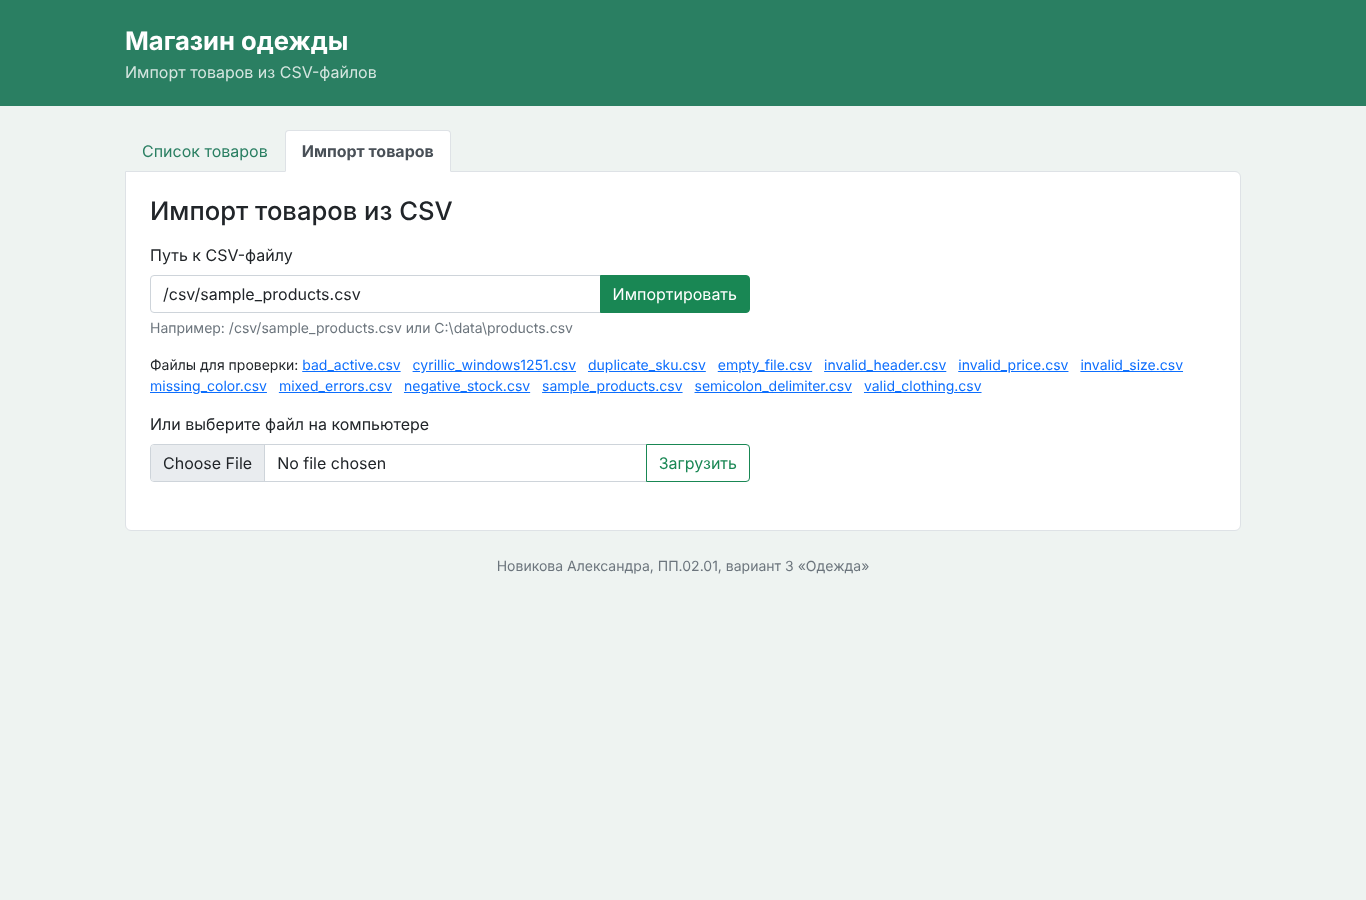
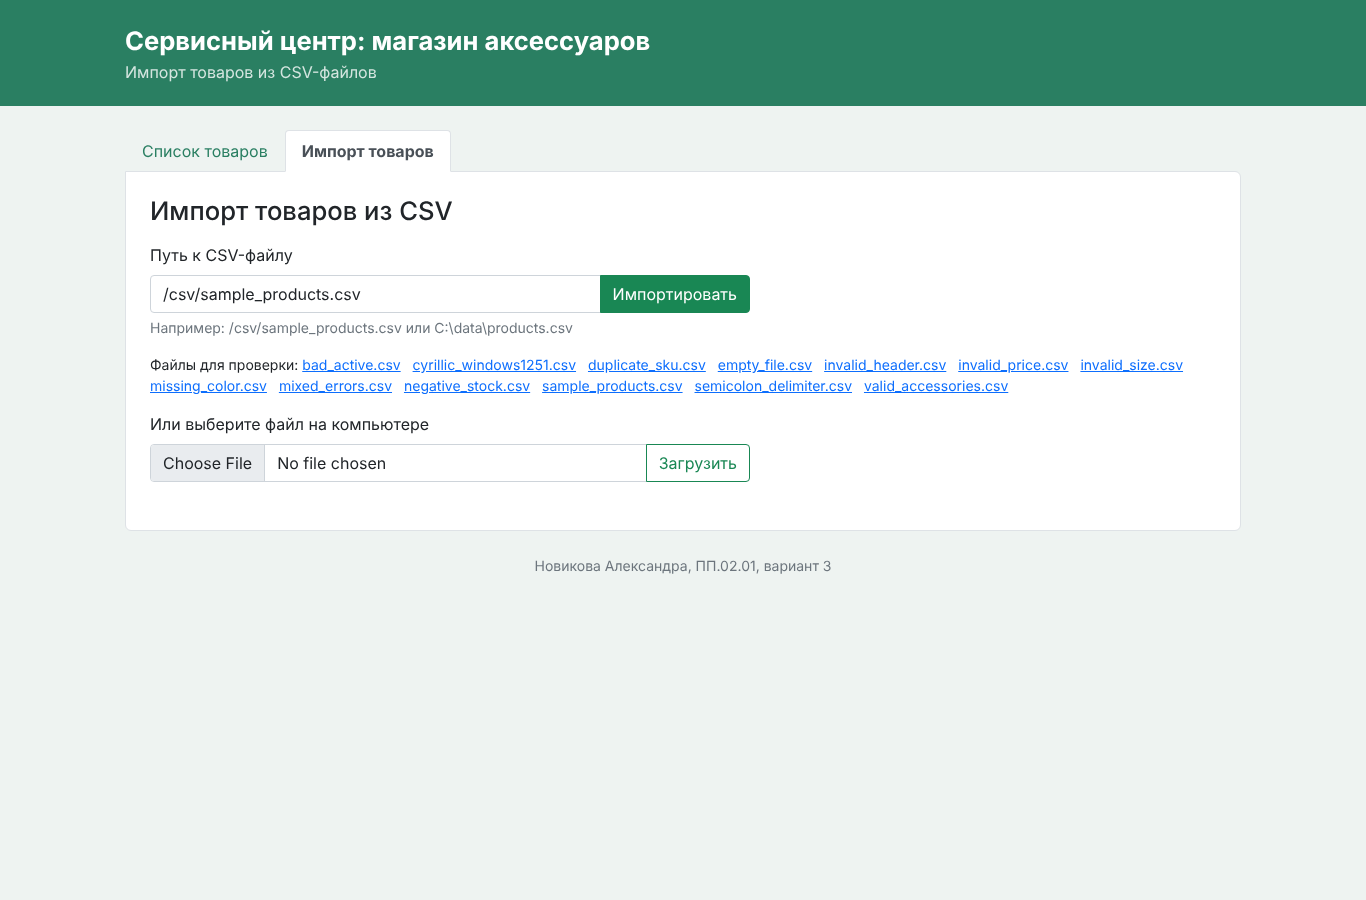
Change sample data to accessories of repair service center

Changed region(s): [[0.0922, 0.0311, 0.4919, 0.0622], [0.369, 0.6222, 0.6457, 0.6533], [0.6457, 0.4044, 0.7379, 0.4356]]

diff --git a/tests/ECommerceCsvImport.Tests/ProductImportServiceTests.cs b/tests/ECommerceCsvImport.Tests/ProductImportServiceTests.cs
@@ -6,7 +6,7 @@ namespace ECommerceCsvImport.Tests
     public class ProductImportServiceTests
     {
         private const string Header = "sku,name,description,price,currency,category_name,stock,image_url,is_active,size,color,material";
-        private const string ValidRow = "3001,Футболка белая,Летняя футболка,990,RUB,Футболки,25,/images/t.jpg,true,M,белый,хлопок";
+        private const string ValidRow = "3001,Чехол-книжка,Чехол с застежкой,990,RUB,Чехлы,25,/images/t.jpg,true,M,белый,силикон";
 
         private readonly InMemoryProductRepository _repository = new InMemoryProductRepository();
         private readonly ProductImportService _service;
@@ -37,7 +37,7 @@ namespace ECommerceCsvImport.Tests
 
             var product = _repository.GetBySku("3001");
             Assert.NotNull(product);
-            Assert.Equal("Футболка белая", product!.Name);
+            Assert.Equal("Чехол-книжка", product!.Name);
             Assert.Equal(990m, product.Price);
             Assert.Equal("M", product.Size);
             Assert.Equal("белый", product.Color);
@@ -63,7 +63,7 @@ namespace ECommerceCsvImport.Tests
 
         // Проверка готовых тестовых файлов из папки testdata
         [Theory]
-        [InlineData("valid_clothing.csv", 2, 0)]
+        [InlineData("valid_accessories.csv", 2, 0)]
         [InlineData("invalid_price.csv", 0, 1)]
         [InlineData("duplicate_sku.csv", 1, 1)]
         [InlineData("missing_color.csv", 0, 1)]
@@ -80,7 +80,7 @@ namespace ECommerceCsvImport.Tests
         [Fact]
         public void WrongHeader_ReturnsError()
         {
-            var result = _service.ImportFromLines(new[] { "sku,name,price", "3001,Футболка,990" });
+            var result = _service.ImportFromLines(new[] { "sku,name,price", "3001,Чехол,990" });
 
             Assert.Equal(0, result.ImportedCount);
             Assert.Contains("Неверные заголовки CSV", Assert.Single(result.Errors).Message);
@@ -89,21 +89,21 @@ namespace ECommerceCsvImport.Tests
         [Fact]
         public void WrongFieldCount_ReturnsError()
         {
-            var result = Import("3001,Футболка белая");
+            var result = Import("3001,Чехол-книжка");
 
             Assert.Contains("Неверное количество полей", Assert.Single(result.Errors).Message);
         }
 
         [Theory]
-        [InlineData(",Футболка,,990,RUB,Футболки,25,,true,M,белый,хлопок", "Поле sku не может быть пустым")]
-        [InlineData("3001,,,990,RUB,Футболки,25,,true,M,белый,хлопок", "Поле name не может быть пустым")]
-        [InlineData("3001,Футболка,,-500,RUB,Футболки,25,,true,M,белый,хлопок", "Поле price должно быть числом больше 0")]
-        [InlineData("3001,Футболка,,abc,RUB,Футболки,25,,true,M,белый,хлопок", "Поле price должно быть числом больше 0")]
-        [InlineData("3001,Футболка,,990,RUB,Футболки,-5,,true,M,белый,хлопок", "Остаток на складе должен быть целым числом не меньше 0")]
-        [InlineData("3001,Футболка,,990,RUB,Футболки,25,,yes,M,белый,хлопок", "Поле is_active должно иметь значение true, false, 1 или 0")]
-        [InlineData("3001,Футболка,,990,RUB,Футболки,25,,true,XXXL,белый,хлопок", "Поле size должно быть S, M, L, XL или числом")]
-        [InlineData("3001,Футболка,,990,RUB,Футболки,25,,true,80,белый,хлопок", "Поле size должно быть S, M, L, XL или числом")]
-        [InlineData("3001,Футболка,,990,RUB,Футболки,25,,true,M,,хлопок", "Поле color обязательно")]
+        [InlineData(",Чехол,,990,RUB,Чехлы,25,,true,M,белый,силикон", "Поле sku не может быть пустым")]
+        [InlineData("3001,,,990,RUB,Чехлы,25,,true,M,белый,силикон", "Поле name не может быть пустым")]
+        [InlineData("3001,Чехол,,-500,RUB,Чехлы,25,,true,M,белый,силикон", "Поле price должно быть числом больше 0")]
+        [InlineData("3001,Чехол,,abc,RUB,Чехлы,25,,true,M,белый,силикон", "Поле price должно быть числом больше 0")]
+        [InlineData("3001,Чехол,,990,RUB,Чехлы,-5,,true,M,белый,силикон", "Остаток на складе должен быть целым числом не меньше 0")]
+        [InlineData("3001,Чехол,,990,RUB,Чехлы,25,,yes,M,белый,силикон", "Поле is_active должно иметь значение true, false, 1 или 0")]
+        [InlineData("3001,Чехол,,990,RUB,Чехлы,25,,true,XXXL,белый,силикон", "Поле size должно быть S, M, L, XL или числом")]
+        [InlineData("3001,Чехол,,990,RUB,Чехлы,25,,true,25,белый,силикон", "Поле size должно быть S, M, L, XL или числом")]
+        [InlineData("3001,Чехол,,990,RUB,Чехлы,25,,true,M,,силикон", "Поле color обязательно")]
         public void InvalidRow_IsNotImported(string row, string expectedError)
         {
             var result = Import(row);
@@ -117,10 +117,10 @@ namespace ECommerceCsvImport.Tests
         [Theory]
         [InlineData("m", "M")]
         [InlineData("XL", "XL")]
-        [InlineData("48", "48")]
+        [InlineData("15", "15")]
         public void Size_LetterOrNumber_IsAccepted(string size, string expected)
         {
-            Import($"3001,Футболка,,990,RUB,Футболки,25,,true,{size},белый,хлопок");
+            Import($"3001,Чехол,,990,RUB,Чехлы,25,,true,{size},белый,силикон");
 
             Assert.Equal(expected, _repository.GetBySku("3001")!.Size);
         }
@@ -128,12 +128,12 @@ namespace ECommerceCsvImport.Tests
         [Fact]
         public void DuplicateSkuInFile_FirstProductStays()
         {
-            var result = Import(ValidRow, "3001,Футболка серая,,1090,RUB,Футболки,8,,true,L,серый,хлопок");
+            var result = Import(ValidRow, "3001,Чехол-бампер,,1090,RUB,Чехлы,8,,true,L,серый,силикон");
 
             Assert.Equal(2, result.TotalRows);
             Assert.Equal(1, result.ImportedCount);
             Assert.Contains("Артикул товара уже существует", Assert.Single(result.Errors).Message);
-            Assert.Equal("Футболка белая", _repository.GetBySku("3001")!.Name);
+            Assert.Equal("Чехол-книжка", _repository.GetBySku("3001")!.Name);
         }
 
         [Fact]
@@ -149,7 +149,7 @@ namespace ECommerceCsvImport.Tests
         [Fact]
         public void EmptyOptionalFields_UseDefaults()
         {
-            Import("3011,Носки,,590,,,40,,true,42,белый,");
+            Import("3011,Чехол для ноутбука,,590,,,40,,true,13,белый,");
 
             var product = _repository.GetBySku("3011")!;
             Assert.Equal("RUB", product.Currency);
@@ -160,7 +160,7 @@ namespace ECommerceCsvImport.Tests
         [Fact]
         public void SeveralErrorsInOneRow_AllAreReported()
         {
-            var result = Import(",,Плохая строка,-10,RUB,Одежда,-5,,yes,XXXL,,");
+            var result = Import(",,Плохая строка,-10,RUB,Чехлы,-5,,yes,XXXL,,");
 
             Assert.Equal(0, _repository.Count);
             Assert.Equal(7, result.ErrorCount);

diff --git a/src/ECommerceCsvImport/Services/ProductImportService.cs b/src/ECommerceCsvImport/Services/ProductImportService.cs
@@ -5,7 +5,7 @@ using ECommerceCsvImport.Models;
 namespace ECommerceCsvImport.Services
 {
     /// <summary>
-    /// Импорт товаров (вариант 3 "Одежда") из CSV: чтение файла, проверка заголовков,
+    /// Импорт товаров (вариант 3) из CSV: чтение файла, проверка заголовков,
     /// валидация строк и добавление корректных товаров в репозиторий.
     /// Строки с ошибками и дубликаты артикулов пропускаются.
     /// </summary>
@@ -21,10 +21,10 @@ namespace ECommerceCsvImport.Services
         private const string DefaultCurrency = "RUB";
         private const string DefaultCategory = "Без категории";
 
-        // Допустимые размеры одежды
+        // Допустимые размеры: буквенные или диагональ устройства в дюймах
         private static readonly string[] LetterSizes = { "S", "M", "L", "XL" };
-        private const int MinNumericSize = 30;
-        private const int MaxNumericSize = 70;
+        private const int MinNumericSize = 10;
+        private const int MaxNumericSize = 20;
 
         private readonly IProductRepository _repository;
         private readonly ILogger<ProductImportService>? _logger;
@@ -210,7 +210,7 @@ namespace ECommerceCsvImport.Services
 
             string color = get("color");
             if (color == "")
-                errors.Add("Поле color обязательно для варианта «Одежда»");
+                errors.Add("Поле color обязательно для заполнения");
 
             string currency = get("currency");
             string category = get("category_name");
@@ -232,7 +232,7 @@ namespace ECommerceCsvImport.Services
             };
         }
 
-        // Возвращает размер в нормальном виде (M, XL, 48) или пустую строку, если размер неверный
+        // Возвращает размер в нормальном виде (M, XL, 15) или пустую строку, если размер неверный
         private static string NormalizeSize(string value)
         {
             string upper = value.ToUpper();

diff --git a/tests/ECommerceCsvImport.Tests/CsvLineParserTests.cs b/tests/ECommerceCsvImport.Tests/CsvLineParserTests.cs
@@ -7,7 +7,7 @@ namespace ECommerceCsvImport.Tests
         [Fact]
         public void Parse_SimpleLine()
         {
-            var fields = CsvLineParser.Parse("3001,Футболка белая,Летняя футболка,990,RUB,Футболки,25,/images/t.jpg,true,M,белый,хлопок");
+            var fields = CsvLineParser.Parse("3001,Чехол-книжка,Чехол с застежкой,990,RUB,Чехлы,25,/images/t.jpg,true,M,белый,силикон");
 
             Assert.Equal(12, fields.Count);
             Assert.Equal("3001", fields[0]);
@@ -16,7 +16,7 @@ namespace ECommerceCsvImport.Tests
         [Fact]
         public void Parse_EmptyFields()
         {
-            var fields = CsvLineParser.Parse("3011,Носки,,590,RUB,Аксессуары,40,,true,42,белый,");
+            var fields = CsvLineParser.Parse("3011,Чехол для ноутбука,,590,RUB,Чехлы,40,,true,13,белый,");
 
             Assert.Equal(12, fields.Count);
             Assert.Equal("", fields[2]);
@@ -26,10 +26,10 @@ namespace ECommerceCsvImport.Tests
         [Fact]
         public void Parse_CommaInsideQuotes()
         {
-            var fields = CsvLineParser.Parse("3002,\"Футболка, оверсайз\",Описание,1490,RUB,Футболки,1,,true,L,чёрный,хлопок");
+            var fields = CsvLineParser.Parse("3002,\"Чехол, противоударный\",Описание,1490,RUB,Чехлы,1,,true,L,чёрный,силикон");
 
             Assert.Equal(12, fields.Count);
-            Assert.Equal("Футболка, оверсайз", fields[1]);
+            Assert.Equal("Чехол, противоударный", fields[1]);
         }
 
         [Fact]

diff --git a/tests/ECommerceCsvImport.Tests/RepositoryTests.cs b/tests/ECommerceCsvImport.Tests/RepositoryTests.cs
@@ -10,7 +10,7 @@ namespace ECommerceCsvImport.Tests
         {
             var repository = new InMemoryProductRepository();
 
-            repository.Add(new Product { Sku = "3001", Name = "Футболка белая", Price = 990m });
+            repository.Add(new Product { Sku = "3001", Name = "Чехол-книжка", Price = 990m });
 
             var all = repository.GetAll();
             Assert.Single(all);
@@ -22,7 +22,7 @@ namespace ECommerceCsvImport.Tests
         public void GetBySku_IgnoresCaseAndSpaces()
         {
             var repository = new InMemoryProductRepository();
-            repository.Add(new Product { Sku = "AB-3001", Name = "Футболка" });
+            repository.Add(new Product { Sku = "AB-3001", Name = "Чехол" });
 
             Assert.NotNull(repository.GetBySku("AB-3001"));
             Assert.NotNull(repository.GetBySku(" ab-3001 "));

diff --git a/src/ECommerceCsvImport/Models/Product.cs b/src/ECommerceCsvImport/Models/Product.cs
@@ -1,6 +1,6 @@
 namespace ECommerceCsvImport.Models
 {
-    // Товар магазина. Вариант 3 - "Одежда" (добавлены размер, цвет и материал)
+    // Товар магазина аксессуаров сервисного центра. Вариант 3 (поля размер, цвет, материал)
     public class Product
     {
         public string Sku { get; set; } = string.Empty;
@@ -13,7 +13,7 @@ namespace ECommerceCsvImport.Models
         public string ImageUrl { get; set; } = string.Empty;
         public bool IsActive { get; set; }
 
-        // Поля варианта "Одежда"
+        // Поля варианта 3
         public string Size { get; set; } = string.Empty;
         public string Color { get; set; } = string.Empty;
         public string Material { get; set; } = string.Empty;

diff --git a/README.md b/README.md
@@ -1,7 +1,9 @@
 # ECommerceCsvImport
 
 Модуль импорта товаров в интернет-магазин из CSV-файла с хранением в памяти.
-Производственная практика ПП.02.01, вариант 3 «Одежда».
+Производственная практика ПП.02.01, вариант 3 (поля размер, цвет, материал).
+Предметная область — магазин аксессуаров сервисного центра по ремонту техники
+(чехлы, сумки для ноутбуков, коврики, ремешки).
 
 Выполнила: Новикова Александра
 
@@ -29,7 +31,7 @@ dotnet test
 
 ```
 sku,name,description,price,currency,category_name,stock,image_url,is_active,size,color,material
-3001,Футболка белая,Летняя футболка,990,RUB,Футболки,25,/images/tshirt-white.jpg,true,M,белый,хлопок
+3001,Чехол-книжка для смартфона,Чехол с магнитной застежкой,890,RUB,Чехлы,25,/images/case-book.jpg,true,M,черный,экокожа
 ```
 
 | Поле | Проверка |
@@ -41,7 +43,7 @@ sku,name,description,price,currency,category_name,stock,image_url,is_active,size
 | category_name | если пусто — «Без категории» |
 | stock | целое число, не меньше 0 |
 | is_active | true / false / 1 / 0 |
-| size | S, M, L, XL или число от 30 до 70 |
+| size | S, M, L, XL или диагональ устройства в дюймах от 10 до 20 |
 | color | не пустое |
 | description, image_url, material | могут быть пустыми |
 
